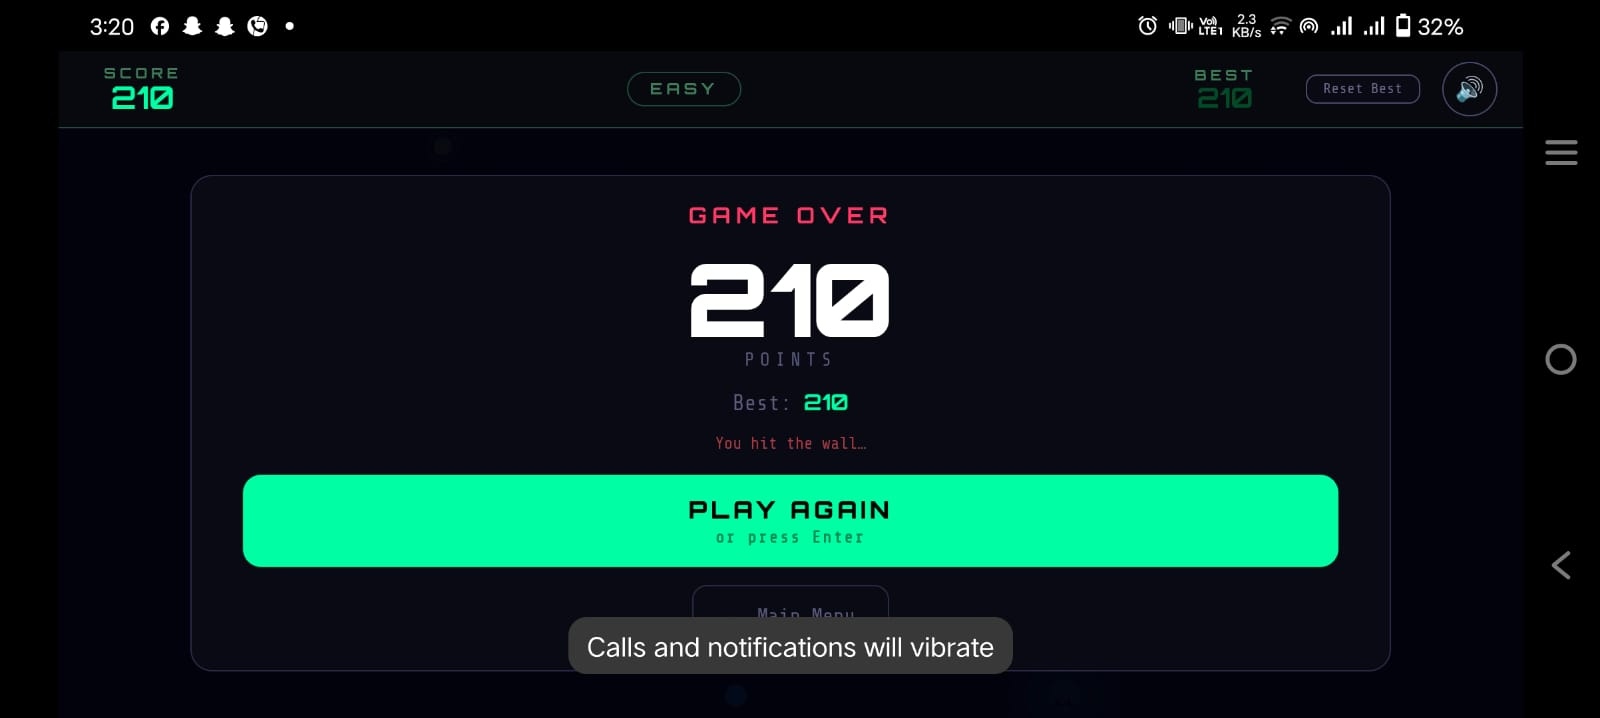
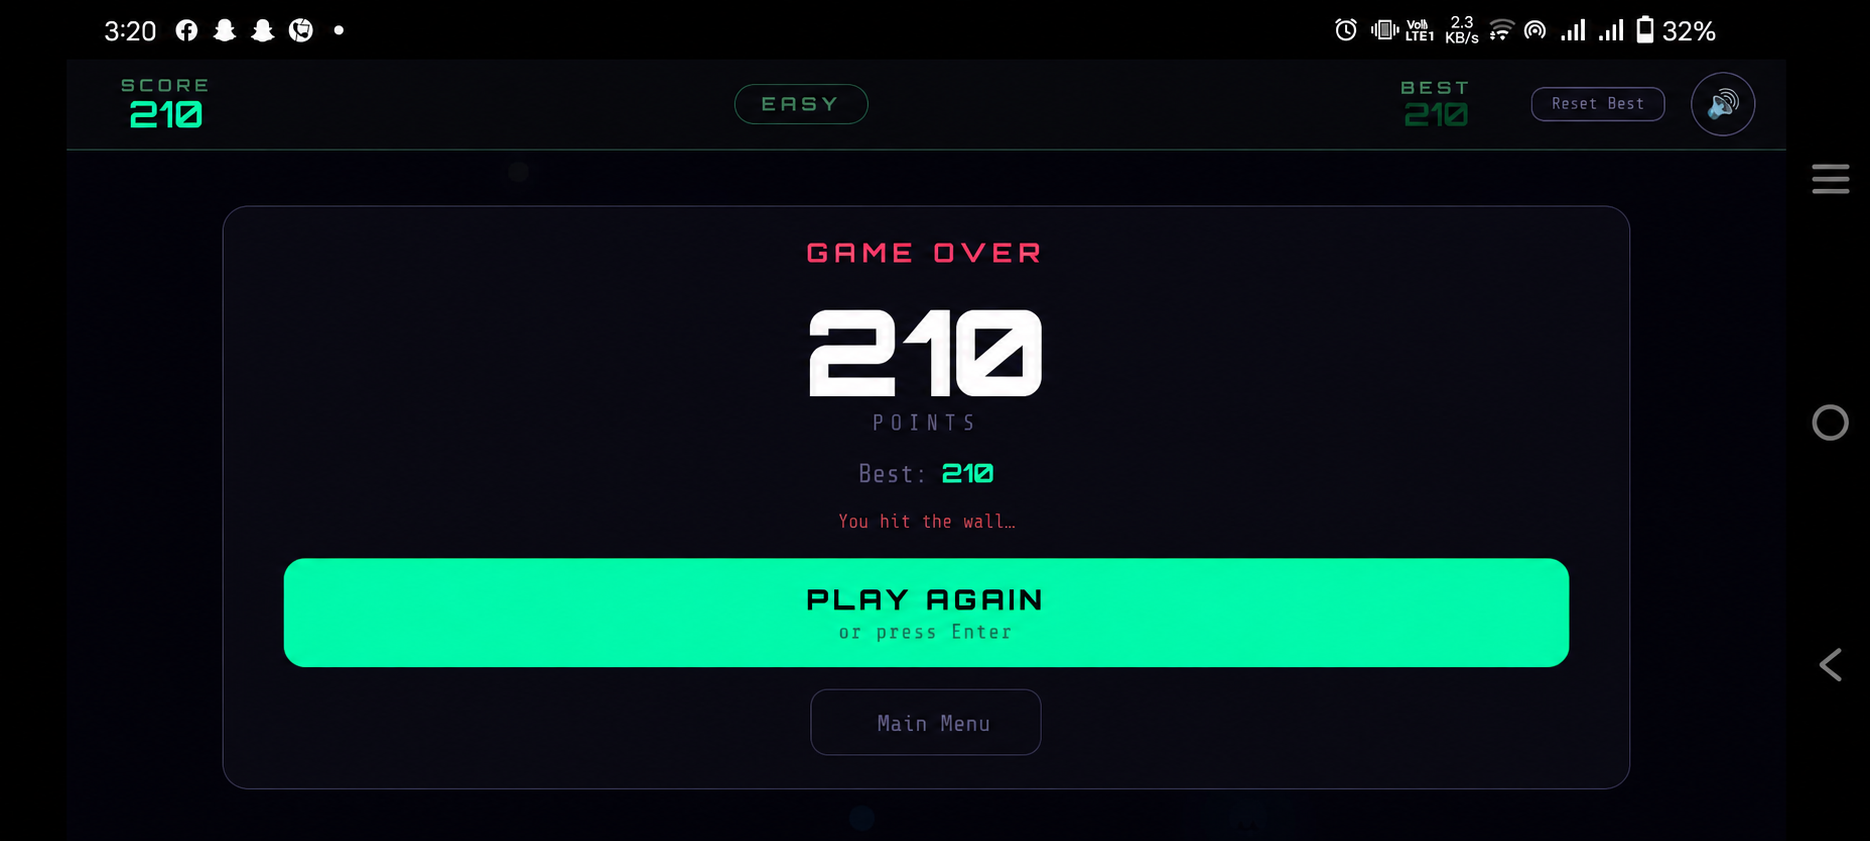
added tab img and changed version to v2

diff --git a/android/README.md b/android/README.md
@@ -12,27 +12,22 @@ Snake Feast is a modern take on the classic snake game with power-ups, combos, a
 
 <p align="center">
     <img src="assets/start.jpeg" alt="start">
-  </a>
 </p>
 
 <p align="center">
     <img src="assets/play1.jpeg" alt="play1">
-  </a>
 </p>
 
 <p align="center">
     <img src="assets/play2.jpeg" alt="play2">
-  </a>
 </p>
 
 <p align="center">
     <img src="assets/play3.jpeg" alt="play3">
-  </a>
 </p>
 
 <p align="center">
     <img src="assets/end.jpeg" alt="end">
-  </a>
 </p>
 
 ### Food types
